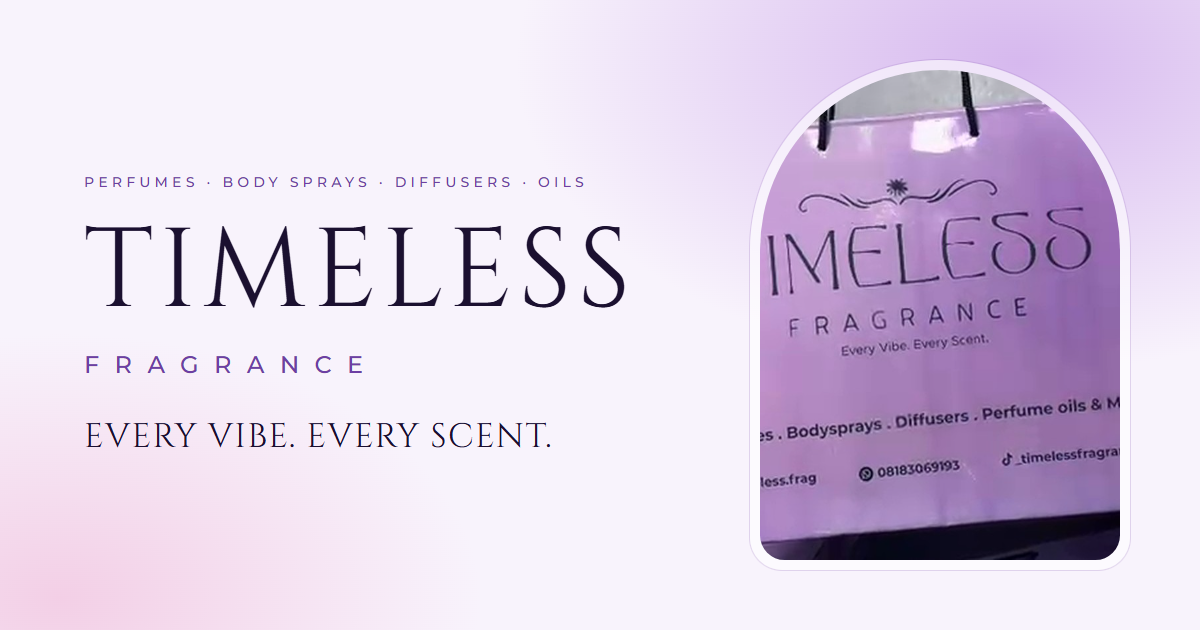
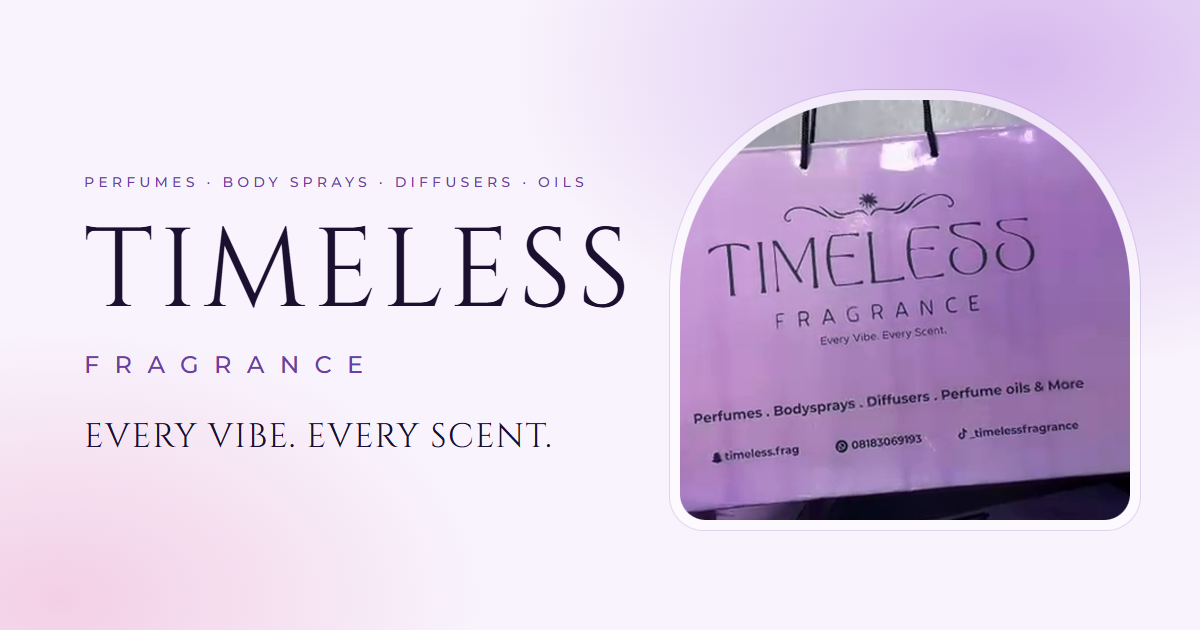
Fit wordmark in social preview

Changed region(s): [[0.555, 0.0905, 0.9558, 0.9048]]

diff --git a/tools/og.html b/tools/og.html
@@ -1,7 +1,7 @@
 <!doctype html><meta charset="utf-8"><link href="https://fonts.googleapis.com/css2?family=Cinzel:wght@400&family=Montserrat:wght@500&display=swap" rel="stylesheet">
 <style>*{margin:0;box-sizing:border-box}body{width:1200px;height:630px;position:relative;overflow:hidden;color:#1b1030;font-family:Montserrat,sans-serif;background:radial-gradient(60% 70% at 85% 10%,#d6b8ee,transparent 70%),radial-gradient(50% 60% at 5% 95%,#f3cfe6,transparent 70%),#f8f3fc}
-.f{position:absolute;right:70px;top:60px;width:380px;padding:10px;border-radius:200px 200px 34px 34px;background:rgba(255,255,255,.6);box-shadow:0 0 0 1px rgba(109,63,163,.18)}
-.f div{height:490px;border-radius:190px 190px 26px 26px;background:url(../images/packaging.jpg) 50% 50%/cover}
+.f{position:absolute;right:60px;top:90px;width:470px;padding:10px;border-radius:200px 200px 34px 34px;background:rgba(255,255,255,.6);box-shadow:0 0 0 1px rgba(109,63,163,.18)}
+.f div{height:420px;border-radius:190px 190px 26px 26px;background:url(../images/packaging.jpg) 50% 50%/cover}
 .l{position:absolute;left:84px;top:0;bottom:0;display:flex;flex-direction:column;justify-content:center}
 .k{font-size:14px;letter-spacing:.3em;color:#6d3fa3;text-transform:uppercase;margin-bottom:26px}
 h1{font:400 112px/1 Cinzel,serif;letter-spacing:.05em;text-transform:uppercase}
